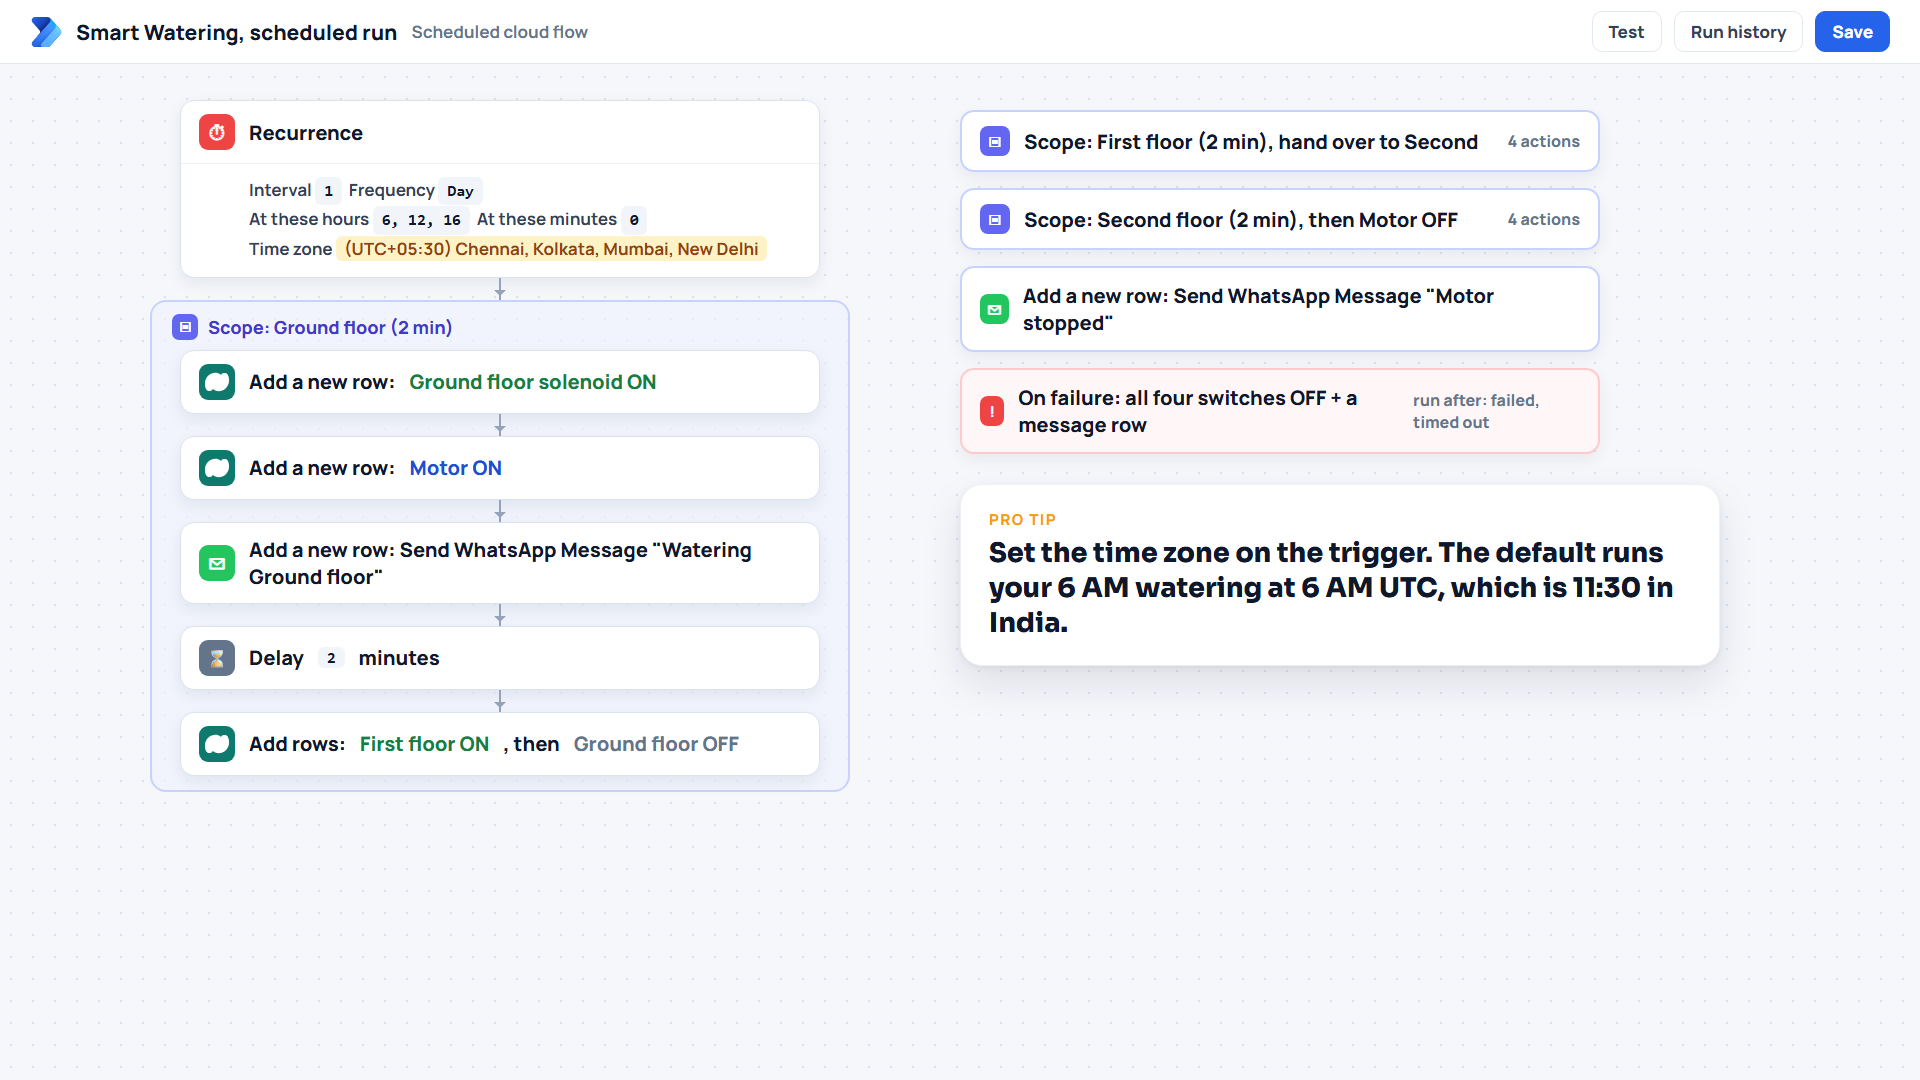
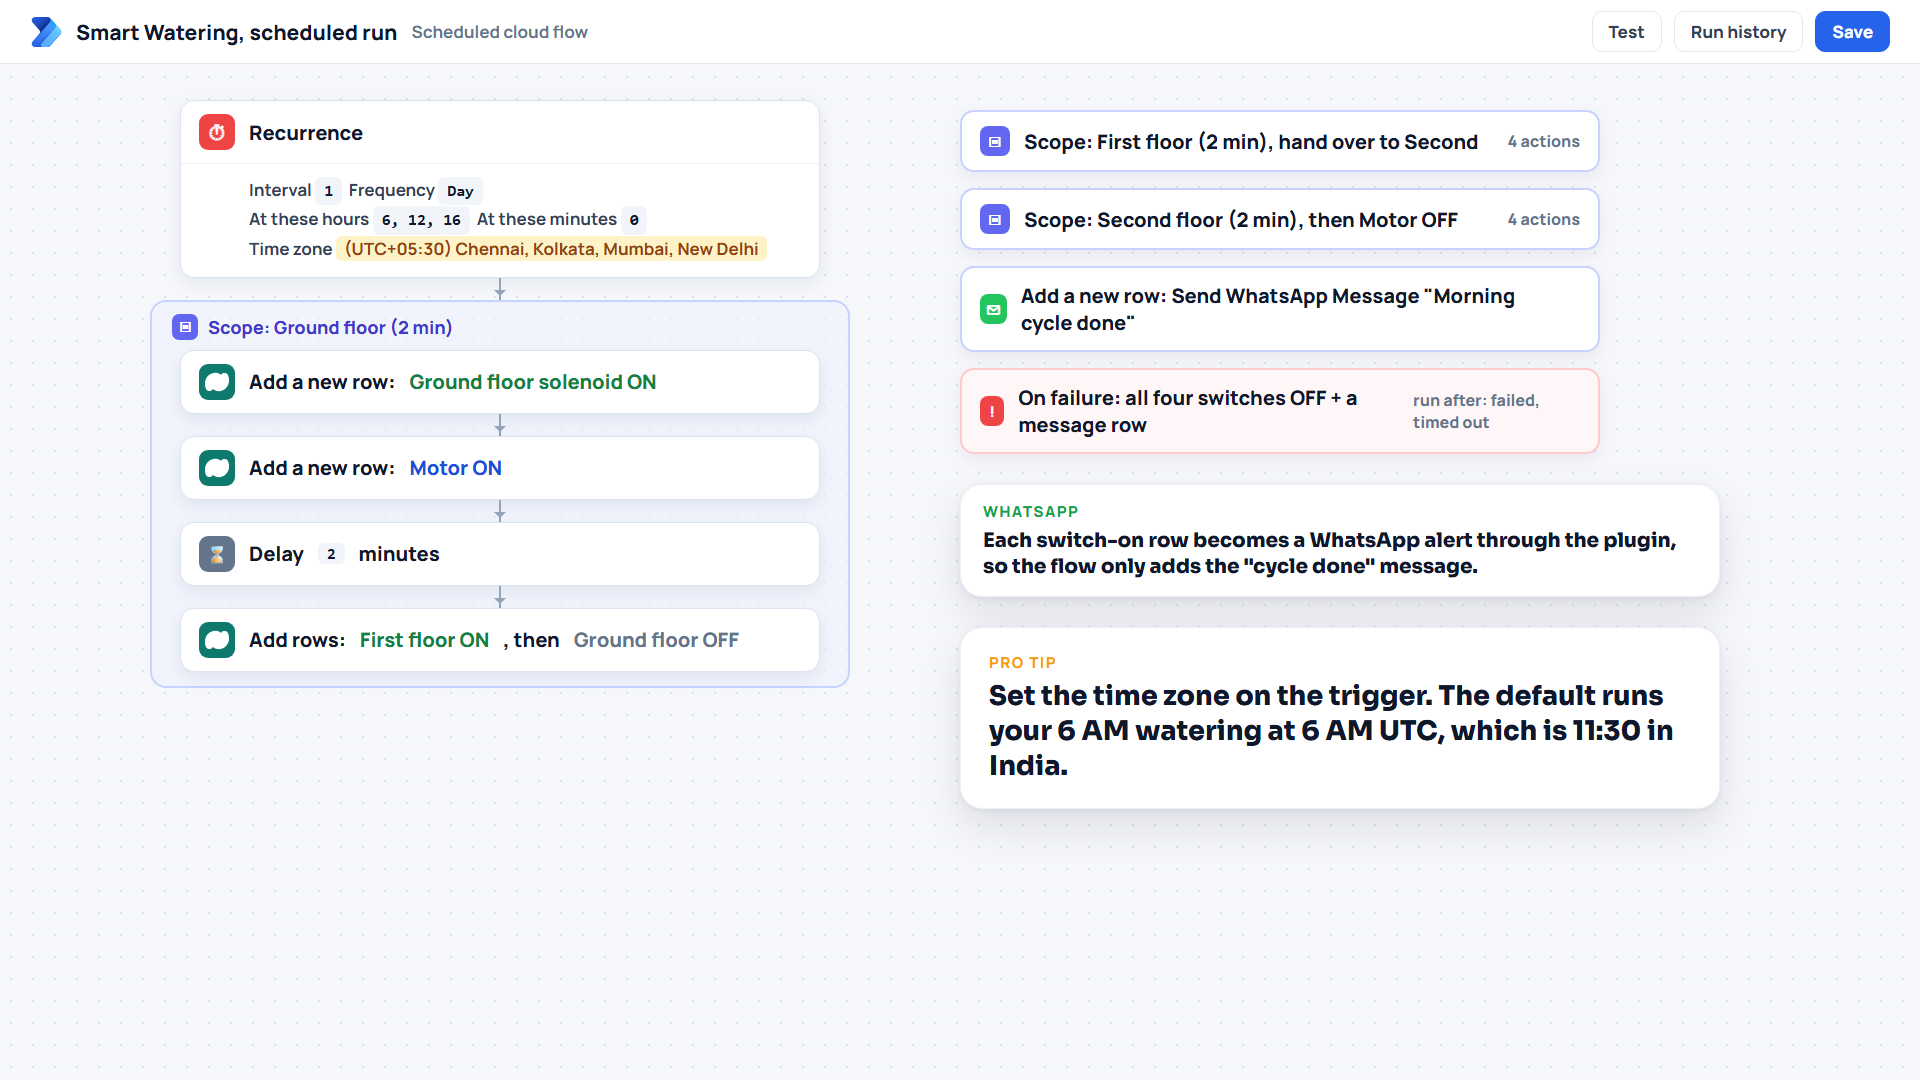
CallAPI v2: open the next tap before closing the previous one; add the video thumbnail and the updated flow image

diff --git a/README.md b/README.md
@@ -26,7 +26,8 @@ It has run at our home since 2023; this is the clean, safer v2, rebuilt step by 
 <!-- VIDEO: replace the next line with the YouTube link after upload -->
 **Coming soon, link added after upload.** Subscribe at [youtube.com/@arihant.explains](https://www.youtube.com/@arihant.explains) to catch it.
 
-<!-- TODO(thumbnail): add the video thumbnail here as docs/images/thumbnail.png, linked to the video, when the video is live -->
+<img src="docs/images/thumbnail.png" alt="Smart Plant Watering video thumbnail" width="640">
+<!-- THUMBNAIL: link this image to the video once it is live -->
 
 ## What it achieves
 
